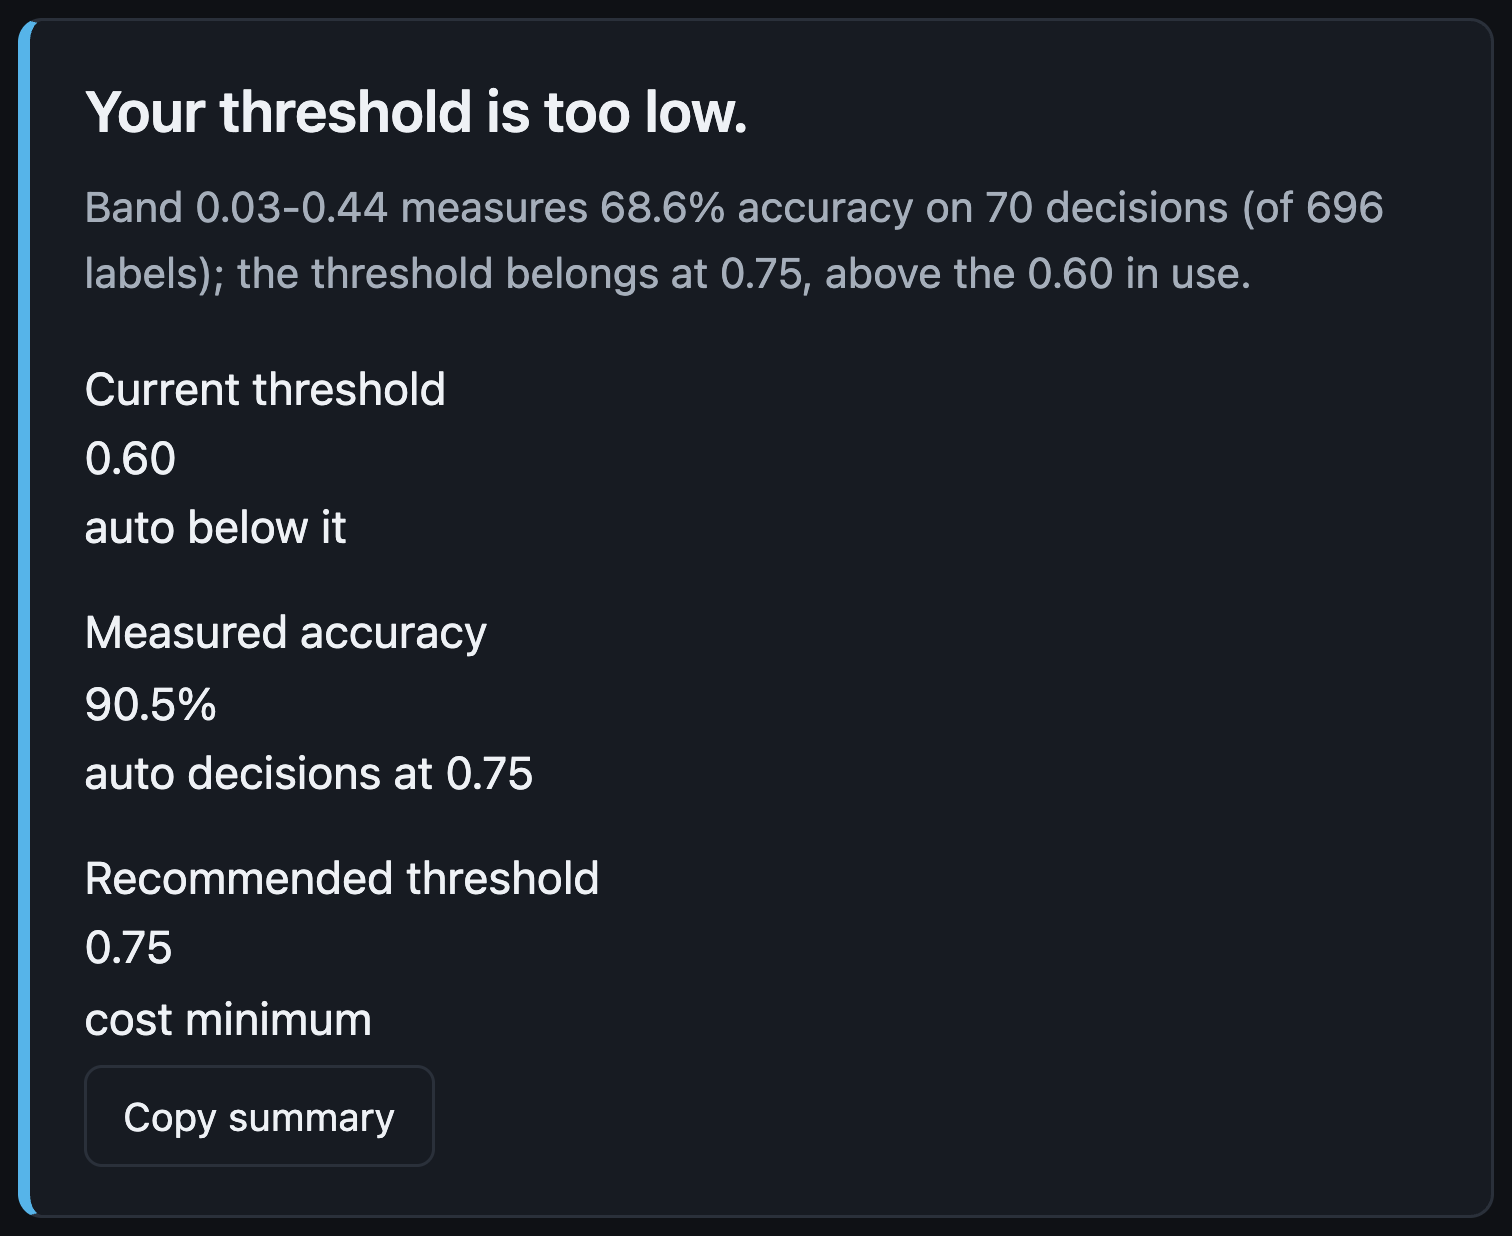
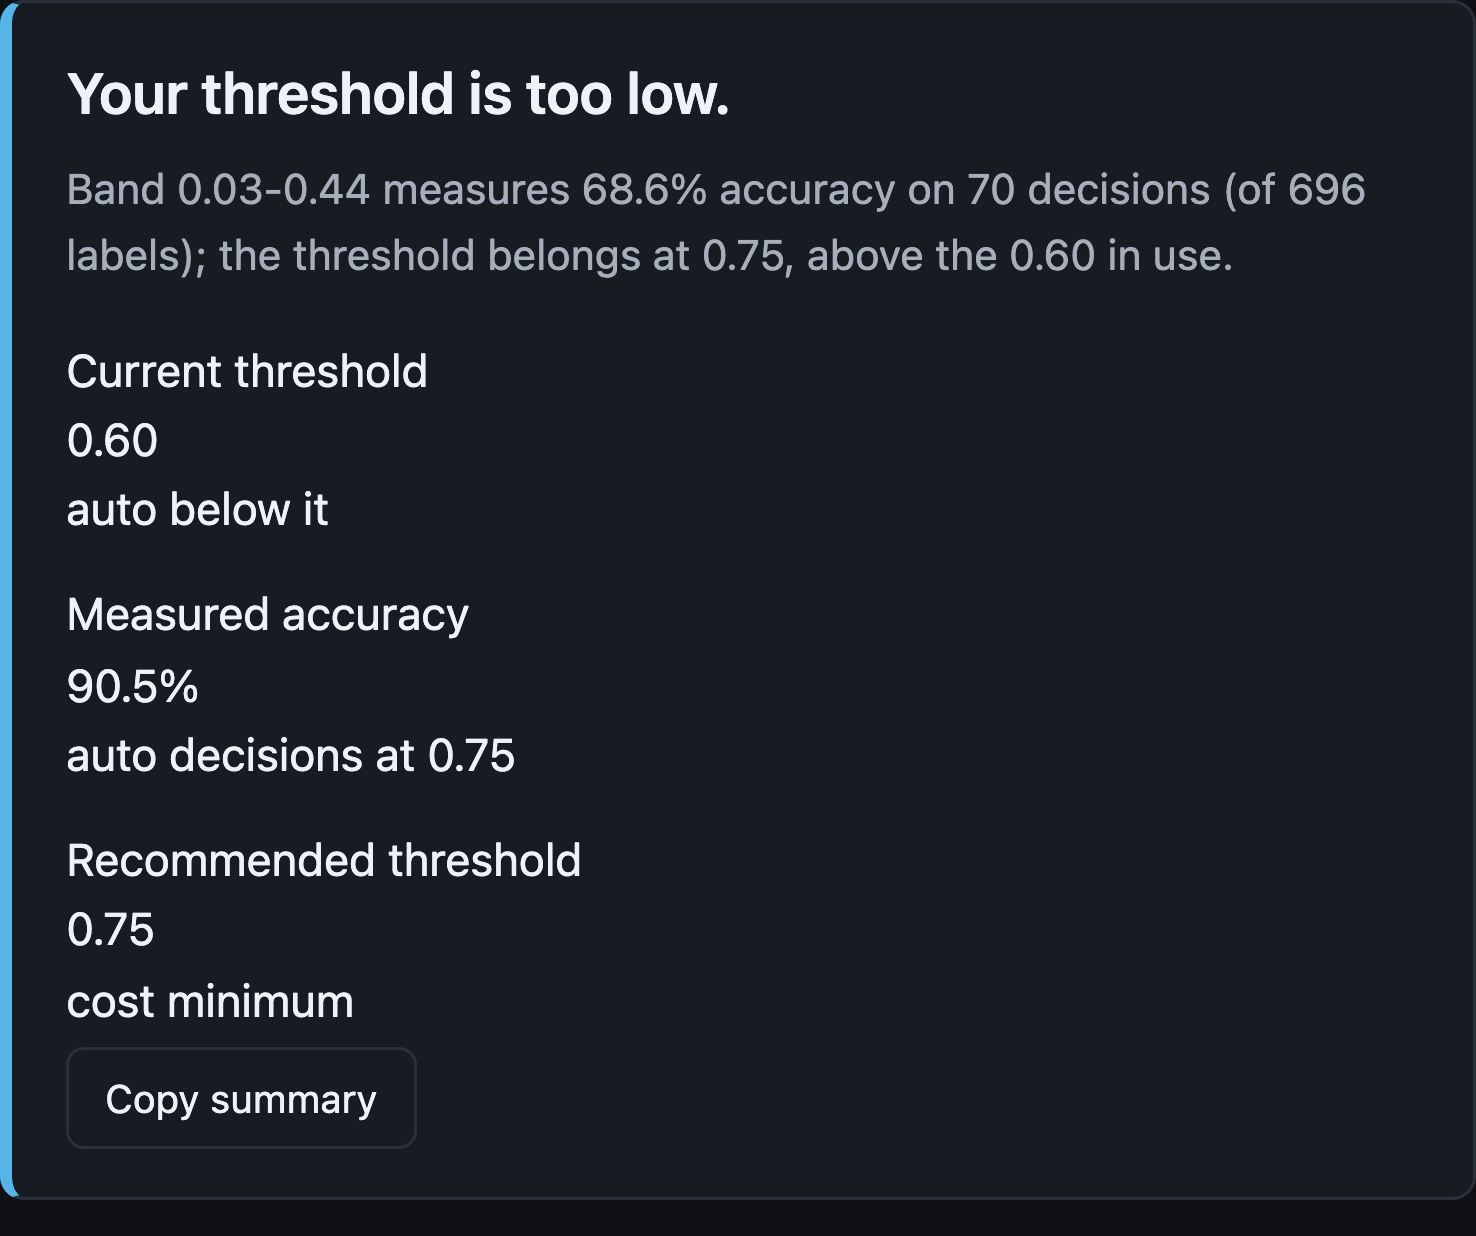
docs: one preview size for all four panels, and a table that reads
The four report previews had the same width but four different aspect ratios
(1.19, 1.48, 1.64, 2.42), so in the two-by-two grid each row stretched to its
taller image: 60 to 75 pixels of dead space under one image per row, and captions
that did not line up. They are now framed to one identical size, 492x412 CSS
(1476x1236), each showing a whole thing rather than a slice: the verdict card,
the section note plus the reliability chart, the recommendation line plus the
impact table, and the segments heading plus the chart. Nothing is clipped: where
a panel is shorter than the frame, the report's own background fills the rest,
and the frame around the segments chart was moved up so it stops before the next
section heading instead of slicing it.

Two more things the rendering showed: the impact table's header row had an empty
first cell, which reads as a broken table, and its numbers wrapped, splitting
KRW from the amount and pt from the value. The header now names the column, and
the table is HTML with column widths so each value stays on one line - its labels
stay verbatim, because the README's numbers are checked against the report.

The opening sentence broke wherever the line happened to end. It is now a
centred two-line statement that breaks where it is meant to.

Changed region(s): [[0.0, 0.0, 0.935, 0.9838], [0.9973, 0.0, 1.0, 0.9838]]

diff --git a/README.md b/README.md
@@ -5,7 +5,10 @@
   </picture>
 </p>
 
-**Find out what your classifier's confidence is really worth, and where to hand off to a human, based on what a mistake costs.**
+<p align="center">
+  <strong>Find out what your classifier's confidence is really worth,<br>
+  and where to hand off to a human, based on what a mistake costs.</strong>
+</p>
 
 <div align="center">
 
@@ -240,13 +243,19 @@ demo uses:
 
 > **Your threshold is too low.** Band 0.03-0.44 measures 68.6% accuracy on 70 decisions (of 696 labels); the threshold belongs at 0.75, above the 0.60 in use.
 
-| | now | recommended | change |
-| --- | --- | --- | --- |
-| confidence threshold | 0.60 | 0.75 | +0.15 |
-| auto rate | 33% | 30% | -2.9 pt |
-| accuracy (auto) | 85% | 91% | +5.4 pt |
-| cost per case | KRW 1,926.23 | KRW 1,737.70 | -9.8% |
-| monthly cost | KRW 38,524,590.16 | KRW 34,754,098.36 | -9.8% |
+<table>
+  <tr>
+    <th align="left" width="31%">what changes</th>
+    <th align="right" width="19%">now</th>
+    <th align="right" width="26%">recommended</th>
+    <th align="right" width="24%">change</th>
+  </tr>
+  <tr><td>confidence threshold</td><td align="right">0.60</td><td align="right">0.75</td><td align="right">+0.15</td></tr>
+  <tr><td>auto rate</td><td align="right">33%</td><td align="right">30%</td><td align="right">-2.9 pt</td></tr>
+  <tr><td>accuracy (auto)</td><td align="right">85%</td><td align="right">91%</td><td align="right">+5.4 pt</td></tr>
+  <tr><td>cost per case</td><td align="right">KRW 1,926.23</td><td align="right">KRW 1,737.70</td><td align="right">-9.8%</td></tr>
+  <tr><td>monthly cost</td><td align="right">KRW 38,524,590.16</td><td align="right">KRW 34,754,098.36</td><td align="right">-9.8%</td></tr>
+</table>
 
 None of these numbers were typed in by hand, because the report itself is in the repository. Open
 [`examples/report-example.html`](examples/report-example.html) in a browser (one 249 KB file, no
